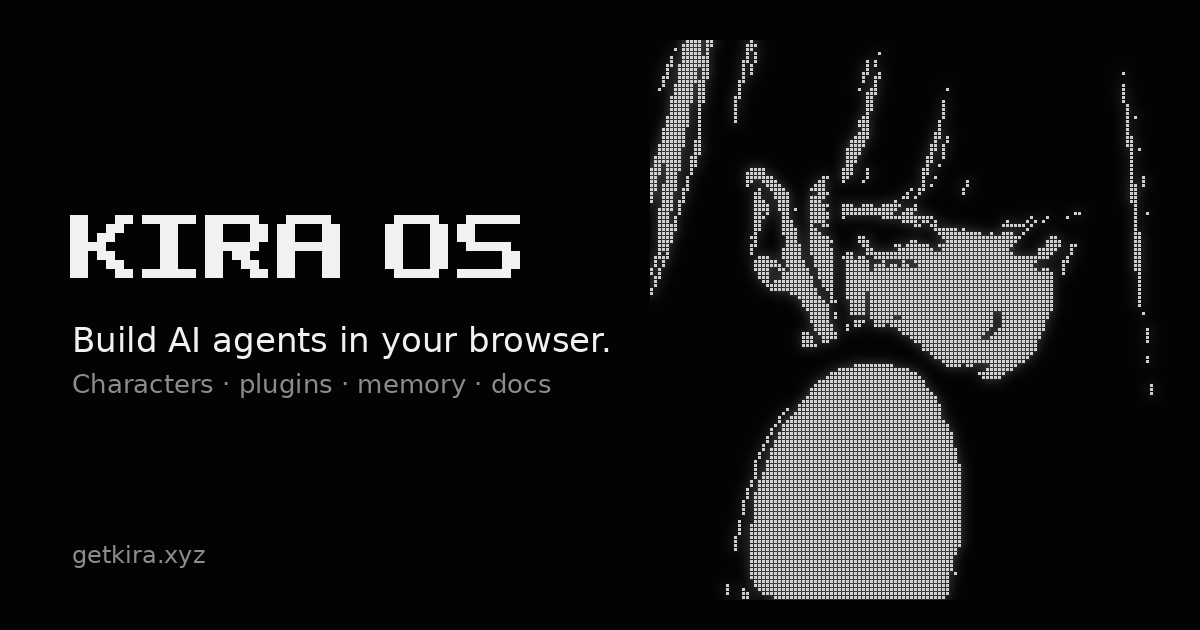
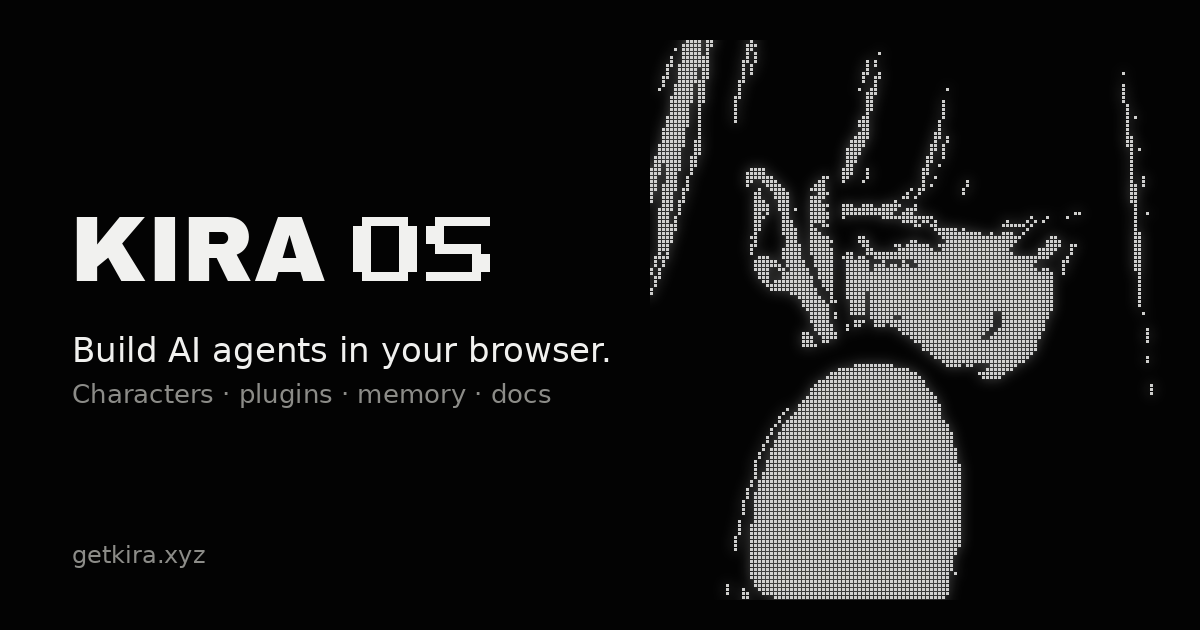
Match wordmark: Archivo Black in navbar and OG image
Claude-Session: https://claude.ai/code/session_018WFLCnuKTBgkCSg9Te7qPv

Changed region(s): [[0.0308, 0.3317, 0.4317, 0.4524], [0.0617, 0.5127, 0.5242, 0.6635]]

diff --git a/public/studio.html b/public/studio.html
@@ -21,7 +21,7 @@
 <meta name="twitter:description" content="Build AI agents in your browser. Characters, plugins, memory and docs — KIRA OS follows the elizaOS plugin architecture.">
 <meta name="twitter:image" content="https://getkira.xyz/og.png">
 <link rel="preconnect" href="https://fonts.googleapis.com">
-<link href="https://fonts.googleapis.com/css2?family=Russo+One&family=Inter+Tight:wght@300;400;500;600;700&family=IBM+Plex+Mono:wght@400;500&display=swap" rel="stylesheet">
+<link href="https://fonts.googleapis.com/css2?family=Archivo+Black&family=Inter+Tight:wght@300;400;500;600;700&family=IBM+Plex+Mono:wght@400;500&display=swap" rel="stylesheet">
 <style>
 /* VOICE: a working agent runtime — calm, exact, ready to use.
    IDEA: a weaving loom: each agent is woven from plugins (actions, providers, evaluators, services).
@@ -220,7 +220,7 @@ body[data-view=plugins] #vplugins,body[data-view=docs] #vdocs{display:block}
  #cfg .sb{overflow:auto}
 }
 @media(max-width:600px){.stack thead{display:none}.stack tr{display:grid;padding-block:8px;border-bottom:1px solid var(--line)}.stack td{display:flow-root;border:0;padding:2px 0;padding-inline-start:6.5em}.stack td::before{content:attr(data-l);float:inline-start;width:6em;margin-inline-start:-6.5em;color:var(--mute)}.brand small{display:none}.m{max-width:92%}.ch h1{font-size:18px}}
-.wm{display:inline-flex;align-items:center;gap:.42em;line-height:1}.wm-a{font-family:"Russo One",sans-serif;font-weight:400;letter-spacing:.01em;color:#f1f1ef}
+.wm{display:inline-flex;align-items:center;gap:.42em;line-height:1}.wm-a{font-family:"Archivo Black",sans-serif;font-weight:400;letter-spacing:.01em;color:#f1f1ef}
 </style>
 </head>
 <body data-pane="chat" data-view="studio">

diff --git a/public/index.html b/public/index.html
@@ -23,7 +23,7 @@
 <meta name="theme-color" content="#030303">
 <link rel="preconnect" href="https://fonts.googleapis.com">
 <link rel="preconnect" href="https://fonts.gstatic.com" crossorigin>
-<link href="https://fonts.googleapis.com/css2?family=Russo+One&family=Inter+Tight:wght@200;300;400;500&family=IBM+Plex+Mono:wght@300;400&display=swap" rel="stylesheet">
+<link href="https://fonts.googleapis.com/css2?family=Archivo+Black&family=Inter+Tight:wght@200;300;400;500&family=IBM+Plex+Mono:wght@300;400&display=swap" rel="stylesheet">
 <style>
 :root{
   --bg:#030303;
@@ -156,7 +156,7 @@ html.intro-lock{overflow:hidden}
 .hero-side{gap:22px}
 @media (max-width:900px){.hero-inner{grid-template-columns:1fr;gap:26px}.hero-side{justify-self:start}.display{font-size:clamp(34px,9.6vw,80px)}.scroll-hint{display:none}}
 @media (prefers-reduced-motion:reduce){.line>span,.hero-side{transition-duration:.01ms!important}}
-.wm{display:inline-flex;align-items:center;gap:.42em;line-height:1}.wm-a{font-family:"Russo One",sans-serif;font-weight:400;letter-spacing:.01em;color:#f1f1ef}
+.wm{display:inline-flex;align-items:center;gap:.42em;line-height:1}.wm-a{font-family:"Archivo Black",sans-serif;font-weight:400;letter-spacing:.01em;color:#f1f1ef}
 
 .hs{scroll-margin-top:90px}
 .section{position:relative;padding:clamp(100px,16vh,190px) var(--pad)}

diff --git a/README.md b/README.md
@@ -43,4 +43,4 @@ Every message costs API usage on your key (each tool step is one call, max 1,024
 - X, Discord and Telegram plugins only write drafts to the Outbox; nothing is posted.
 - `public/llms-full.txt` is the elizaOS documentation, MIT License, © elizaOS contributors
   (see `public/llms-full.NOTICE.txt`).
-- The navbar wordmark uses Russo One (Google Fonts, SIL Open Font License).
+- The wordmark uses Archivo Black (Google Fonts, SIL Open Font License).
